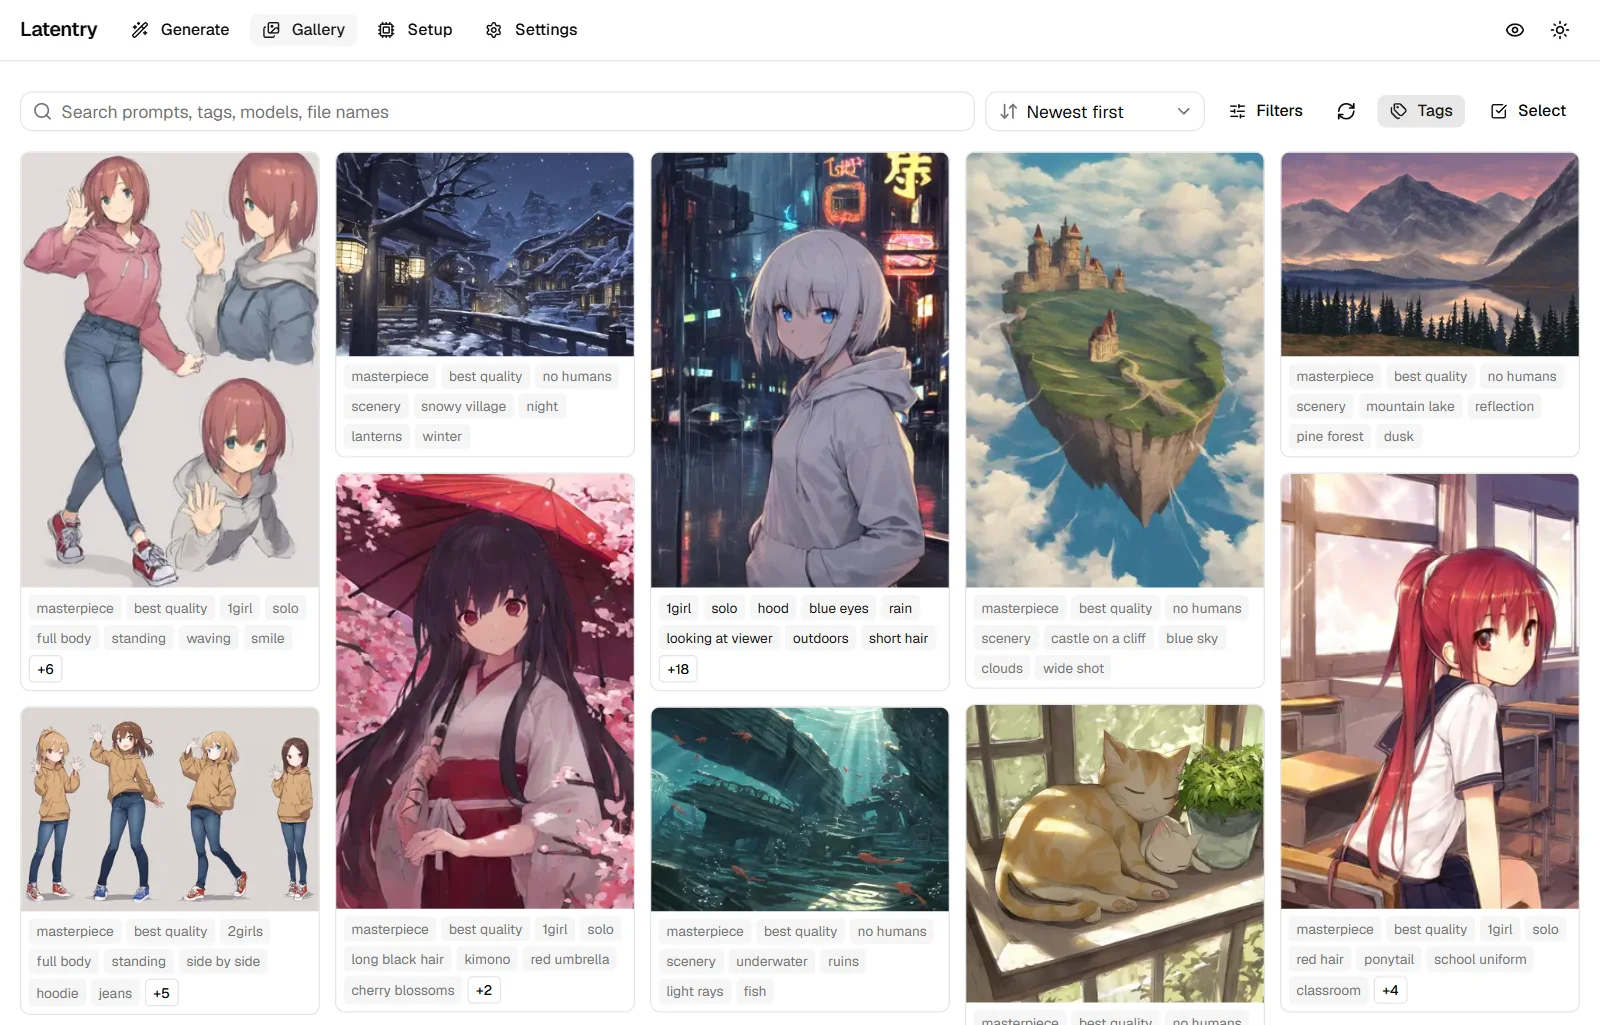
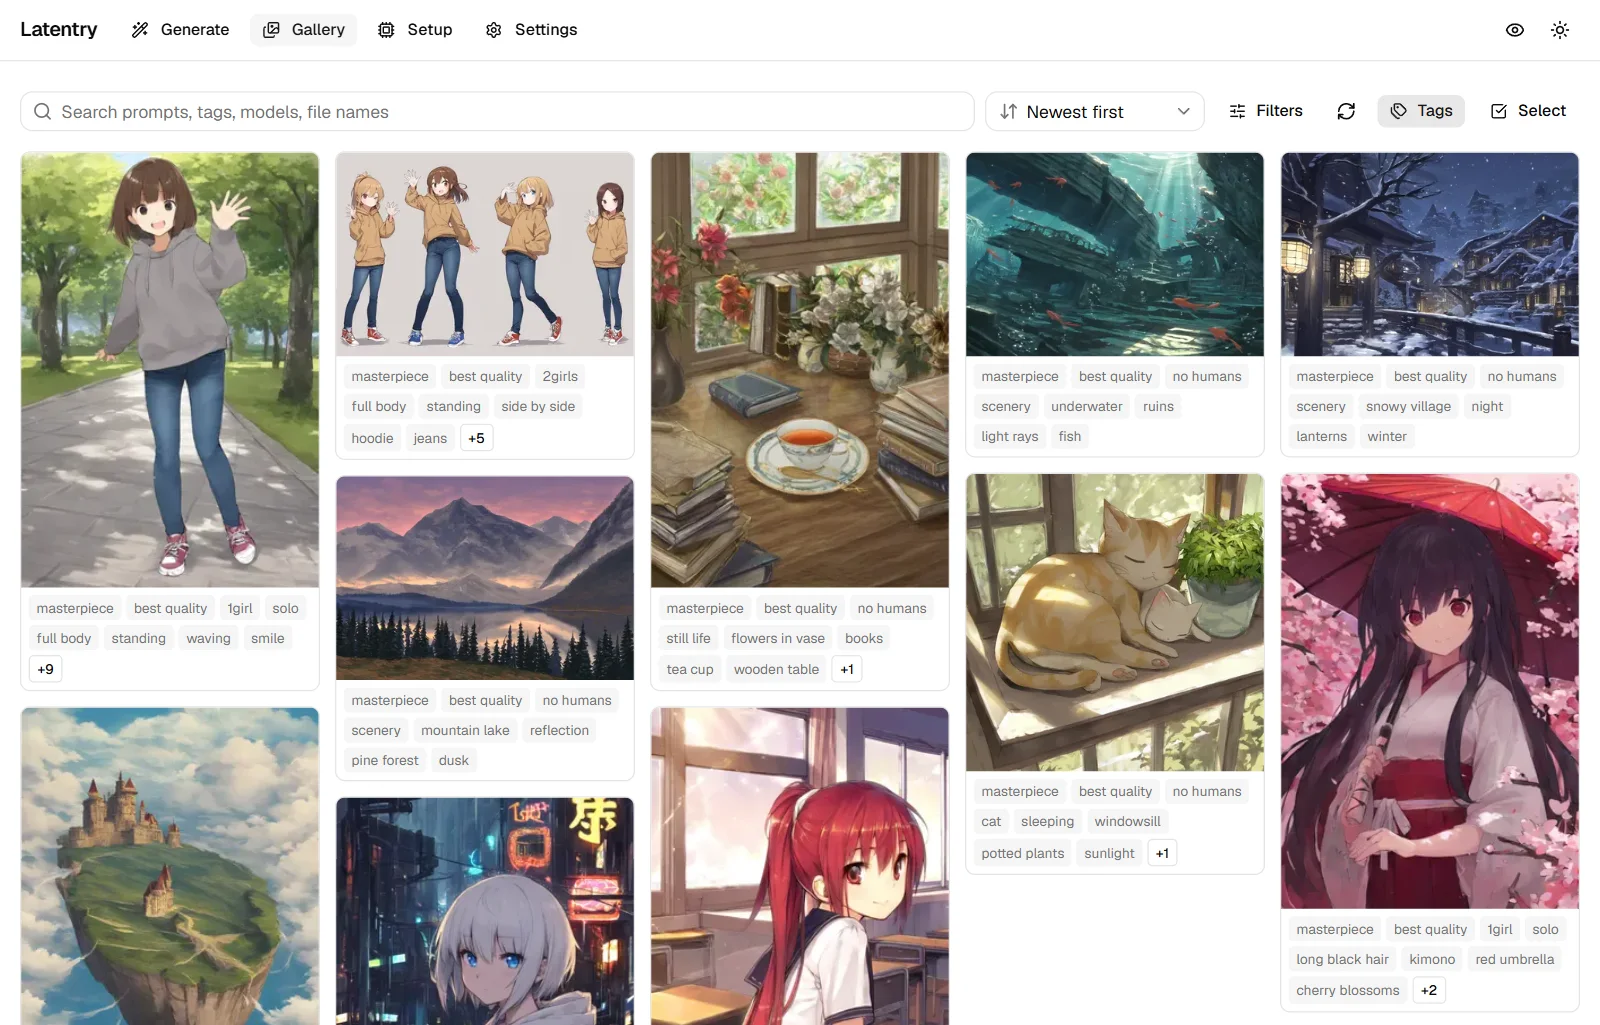
Redraw the full-body picture for the 3D view shot
On a plain background its prompt drew a character sheet; one person in a
park instead (seed 1111). The gallery, viewer and 3D view shots are retaken
with it. The 3D shot switches backend only when the form is not already on
the engine.

diff --git a/e2e/screenshots/engine.shots.ts b/e2e/screenshots/engine.shots.ts
@@ -29,7 +29,8 @@ const PICTURES: [string, string, number][] = [
   ['no humans, scenery, underwater, ruins, light rays, fish', '1216×832', 1008],
   ['no humans, still life, flowers in vase, books, tea cup, wooden table, window', '832×1216', 1009],
   ['2girls, full body, standing, side by side, hoodie, jeans, sneakers, waving, smile, simple background, white background', '1216×832', 1010],
-  ['1girl, solo, full body, standing, waving, smile, short hair, hoodie, jeans, sneakers, simple background, white background', '832×1216', 1011],
+  // One person in a scene: on a plain background this prompt drew a character sheet.
+  ['1girl, solo, full body, standing, waving, smile, looking at viewer, short brown hair, grey hoodie, blue jeans, sneakers, outdoors, park, trees, day', '832×1216', 1111],
 ]
 
 test('the engine draws the gallery', async ({ page }) => {
@@ -89,9 +90,12 @@ take('manual-3d')('3D view, from a full-body picture', async ({ page }) => {
   if (!(await usePose.isVisible())) await page.getByRole('button', { name: 'Details' }).click()
   await usePose.click()
   await expect(page).toHaveURL(/\/$/)
-  // The form opens on the first backend; the skeleton needs the engine.
-  await page.getByRole('combobox').first().click()
-  await page.getByRole('option').filter({ has: page.getByText('engine', { exact: true }) }).click()
+  // The form opens on the backend chosen last; the skeleton needs the engine.
+  const picker = page.getByRole('combobox').first()
+  if (!(await picker.textContent())?.includes('engine')) {
+    await picker.click()
+    await page.getByRole('option').filter({ has: page.getByText('engine', { exact: true }) }).click()
+  }
   // Draw the skeleton from the reference, then open the 3D view.
   await page.getByRole('button', { name: "Use the source's pose" }).click()
   await expect(page.getByRole('img', { name: 'Skeleton pose' })).toBeVisible({ timeout: 120_000 })
